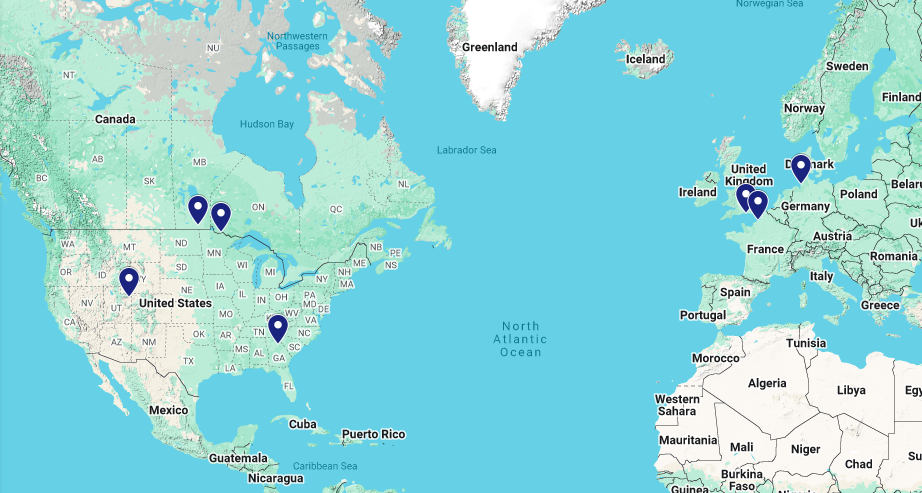
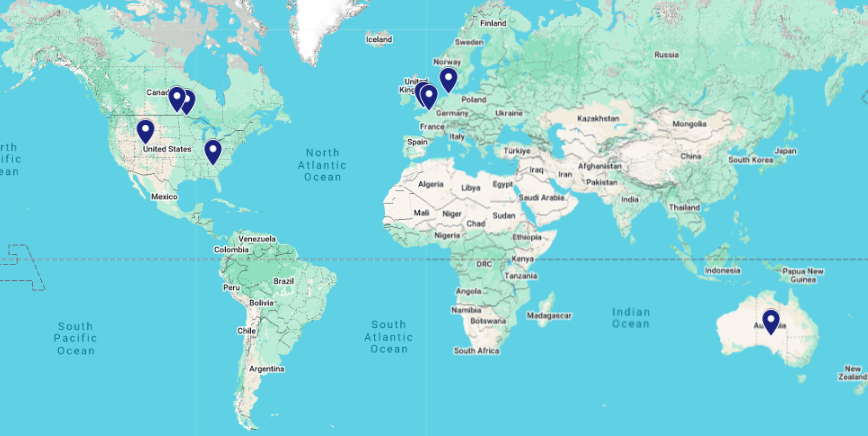
added extra address and ...

diff --git a/src/components/Footer.tsx b/src/components/Footer.tsx
@@ -72,38 +72,34 @@ const Footer: React.FC = () => {
               Zip Xpress - Your trusted partner in global logistics and transportation services. Delivering excellence in shipping solutions since 2020.
             </p>
             <div className="flex justify-center sm:justify-start space-x-4">
-              <a
-                href="https://www.facebook.com/ups"
-                target="_blank"
-                rel="noopener noreferrer"
-                className="text-gray-300 hover:text-zip-red-500transition-colors duration-300 transform hover:scale-110"
+              <button
+                onClick={() => handleNavClick('/contact')}
+                className="text-gray-300 hover:text-zip-red-500 transition-colors duration-300 transform hover:scale-110"
+                aria-label="Facebook"
               >
                 <FaFacebook className="h-5 w-5" />
-              </a>
-              <a
-                href="https://twitter.com/UPS"
-                target="_blank"
-                rel="noopener noreferrer"
-                className="text-gray-300 hover:text-zip-red-500transition-colors duration-300 transform hover:scale-110"
+              </button>
+              <button
+                onClick={() => handleNavClick('/contact')}
+                className="text-gray-300 hover:text-zip-red-500 transition-colors duration-300 transform hover:scale-110"
+                aria-label="Twitter"
               >
                 <FaTwitter className="h-5 w-5" />
-              </a>
-              <a
-                href="https://www.instagram.com/ups"
-                target="_blank"
-                rel="noopener noreferrer"
-                className="text-gray-300 hover:text-zip-red-500transition-colors duration-300 transform hover:scale-110"
+              </button>
+              <button
+                onClick={() => handleNavClick('/contact')}
+                className="text-gray-300 hover:text-zip-red-500 transition-colors duration-300 transform hover:scale-110"
+                aria-label="Instagram"
               >
                 <FaInstagram className="h-5 w-5" />
-              </a>
-              <a
-                href="https://www.linkedin.com/company/ups"
-                target="_blank"
-                rel="noopener noreferrer"
-                className="text-gray-300 hover:text-zip-red-500transition-colors duration-300 transform hover:scale-110"
+              </button>
+              <button
+                onClick={() => handleNavClick('/contact')}
+                className="text-gray-300 hover:text-zip-red-500 transition-colors duration-300 transform hover:scale-110"
+                aria-label="LinkedIn"
               >
                 <FaLinkedin className="h-5 w-5" />
-              </a>
+              </button>
             </div>
           </div>
 
@@ -186,7 +182,7 @@ const Footer: React.FC = () => {
               <li className="flex items-center justify-center sm:justify-start space-x-3">
                 <Icon icon={FaEnvelope} size={16} className="text-french-blue-400" />
                 <span className="text-gray-300">
-                  <a href="mailto:support@zipxpress.com" className="hover:text-zip-red-500transition-colors duration-300 text-sm sm:text-base">support@zipxpress.com</a>
+                  <a href="mailto:support@zip-xpresslogistics.com" className="hover:text-zip-red-500transition-colors duration-300 text-sm sm:text-base">support@zip-xpresslogistics.com</a>
                 </span>
               </li>
             </ul>

diff --git a/src/components/Layout/Footer.tsx b/src/components/Layout/Footer.tsx
@@ -59,7 +59,7 @@ const Footer: React.FC = () => {
               </li>
               <li className="flex items-start space-x-3">
                 <Icon icon={FaEnvelope} className="mt-1" size={16} />
-                <span className="text-gray-300 text-sm">support@zipxpress.com</span>
+                <span className="text-gray-300 text-sm">support@zip-xpresslogistics.com</span>
               </li>
               <li className="flex items-start space-x-3">
                 <Icon icon={FaMapMarkerAlt} className="mt-1" size={16} />
@@ -76,18 +76,18 @@ const Footer: React.FC = () => {
           <div>
             <h3 className="text-lg font-semibold mb-4">Follow Us</h3>
             <div className="flex space-x-4">
-              <a href="#" className="text-gray-300 hover:text-white">
+              <Link to="/contact" className="text-gray-300 hover:text-white" aria-label="Facebook">
                 <Icon icon={FaFacebook} size={20} />
-              </a>
-              <a href="#" className="text-gray-300 hover:text-white">
+              </Link>
+              <Link to="/contact" className="text-gray-300 hover:text-white" aria-label="Twitter">
                 <Icon icon={FaTwitter} size={20} />
-              </a>
-              <a href="#" className="text-gray-300 hover:text-white">
+              </Link>
+              <Link to="/contact" className="text-gray-300 hover:text-white" aria-label="LinkedIn">
                 <Icon icon={FaLinkedin} size={20} />
-              </a>
-              <a href="#" className="text-gray-300 hover:text-white">
+              </Link>
+              <Link to="/contact" className="text-gray-300 hover:text-white" aria-label="Instagram">
                 <Icon icon={FaInstagram} size={20} />
-              </a>
+              </Link>
             </div>
           </div>
         </div>

diff --git a/src/services/userService.ts b/src/services/userService.ts
@@ -21,8 +21,8 @@ export interface UserInput {
 
 const DEFAULT_ADMIN: Omit<User, 'id'> = {
   username: 'Admin',
-  email: 'admin@zipxpress.com', // Updated to new branding email or generic admin email
-  password: 'password123', // Simplified for demo/testing since we are removing Firebase auth. Ideally user changes this.
+  email: 'admin@zip-xpresslogistics.com', // Updated to new official domain
+  password: 'password123',
   // Wait, let's keep the original password if possible but simplified logic.
   // The original password was 'Glob@ltr@ckTe@m100$'. I should probably keep it or prompt user.
   // I will use 'admin' / 'admin' or similar for easier testing, but better stick to safe defaults.

diff --git a/src/pages/AdministrationAndDevelopment.tsx b/src/pages/AdministrationAndDevelopment.tsx
@@ -196,7 +196,7 @@ const AdministrationAndDevelopment: React.FC = () => {
         id: 'test-id',
         trackingNumber: 'TEST' + Math.floor(Math.random() * 1000000).toString().padStart(6, '0'),
         shipperName: 'Test Shipper',
-        shipperEmail: 'admin@zipxpress.com',
+        shipperEmail: 'admin@zip-xpresslogistics.com',
         shipperAddress: '123 Shipper St, Test City',
         shipperPhone: '+1 234-567-8900',
         receiverName: 'Test Receiver',

diff --git a/src/pages/Contact.tsx b/src/pages/Contact.tsx
@@ -184,7 +184,7 @@ const Contact: React.FC = () => {
                   <div className="ml-4">
                     <p className="text-base font-medium text-zip-blue-800 dark:text-white">Email</p>
                     <p className="mt-1 text-base text-gray-500 dark:text-gray-400">
-                      support@zipxpress.com
+                      support@zip-xpresslogistics.com
                     </p>
                   </div>
                 </div>

diff --git a/src/components/GlobalBranches.tsx b/src/components/GlobalBranches.tsx
@@ -61,6 +61,13 @@ const branches: Branch[] = [
         postalCode: '27476',
         country: 'Germany',
         address: 'Am Grooten Steen 3A'
+    },
+    {
+        city: 'Coober Pedy',
+        region: 'SA',
+        postalCode: '5723',
+        country: 'Australia',
+        address: 'Lot 179 Italian Club Rd'
     }
 ];
 
